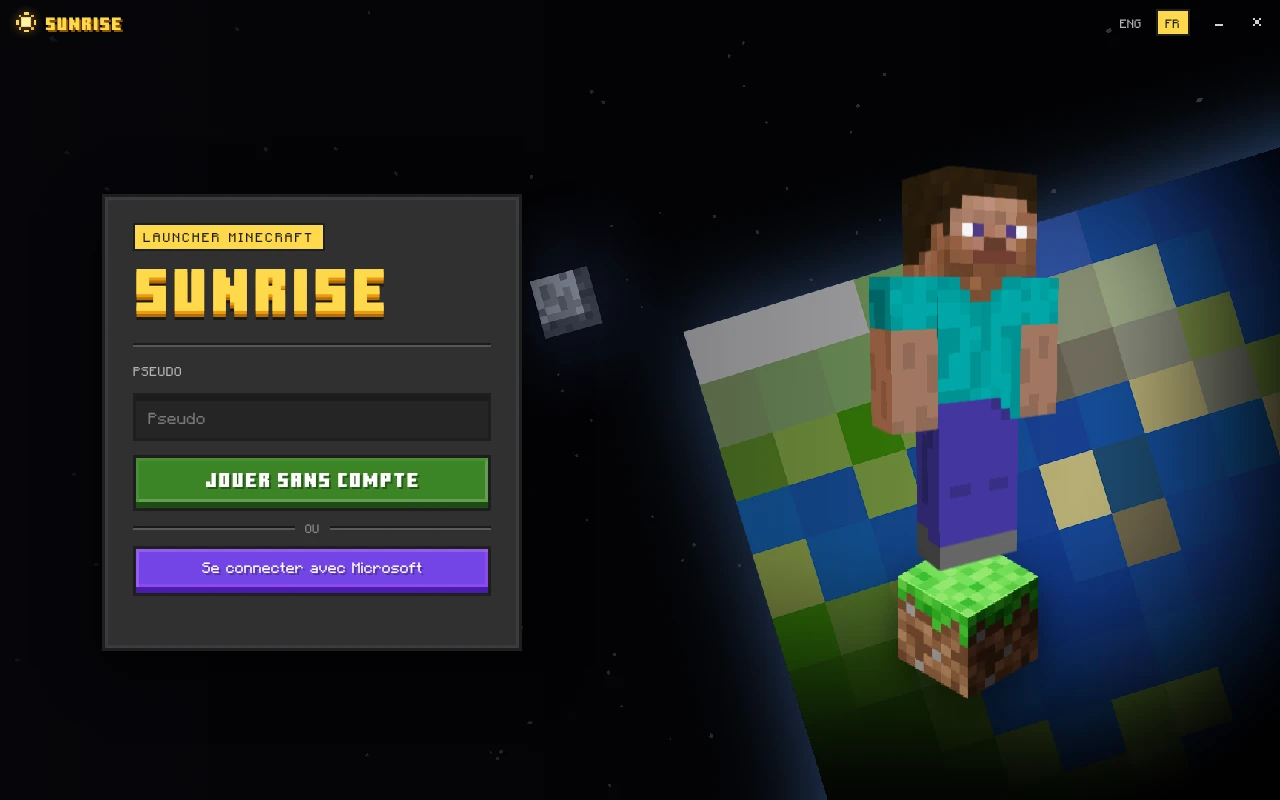
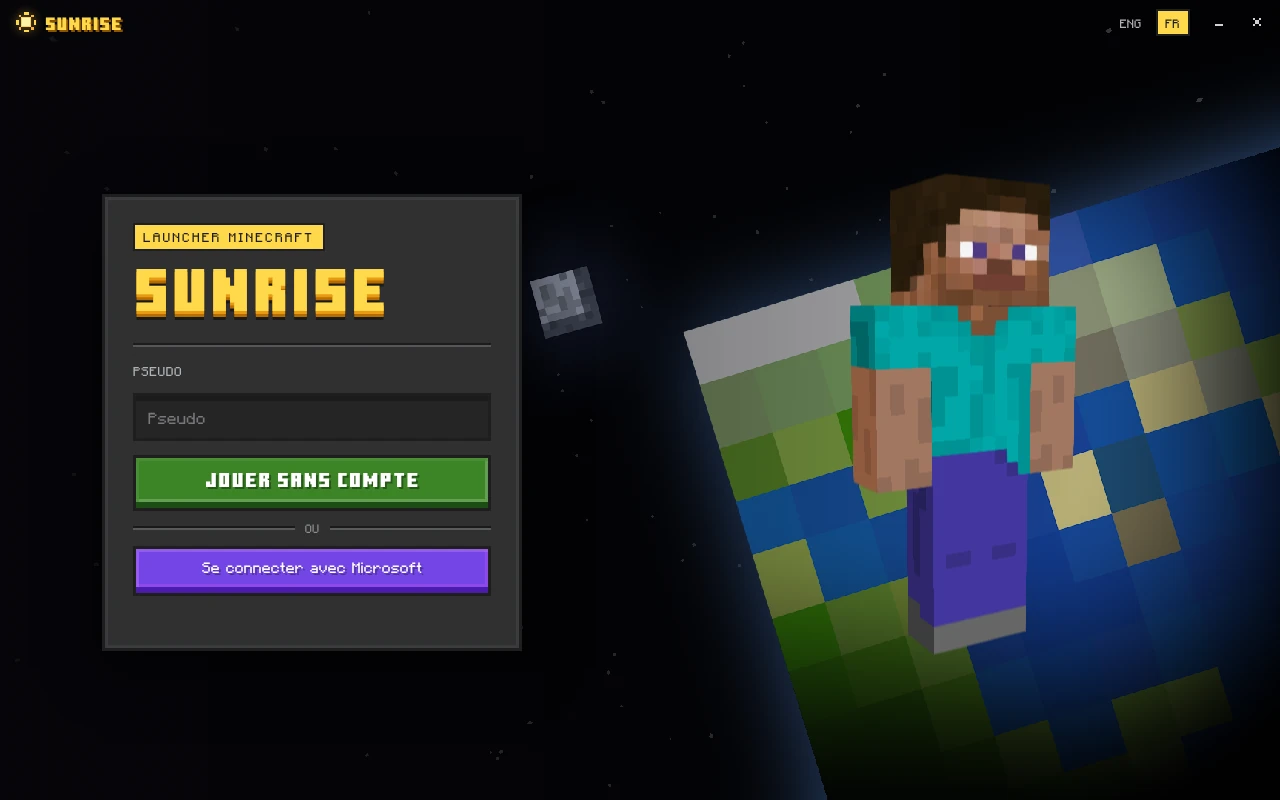
Site : retrait de la mascotte du hero, captures mises à jour
Claude-Session: https://claude.ai/code/session_01QjdxvuHCVspif69EuGBgUp

Changed region(s): [[0.6562, 0.1875, 0.8438, 0.875]]

diff --git a/docs/index.html b/docs/index.html
@@ -112,8 +112,6 @@ a { color: inherit; text-decoration: none; }
 .window-bar span:nth-child(1) { background: #c33636; } .window-bar span:nth-child(2) { background: var(--sun); } .window-bar span:nth-child(3) { background: var(--g); }
 .window-bar em { margin-left: 8px; font-style: normal; }
 .window img { border: 3px solid #0f0f10; box-shadow: 0 30px 80px rgba(0,0,0,.6), 0 0 0 1px rgba(255,255,255,.04); }
-.mascot { position: absolute; width: 120px; right: -26px; bottom: -48px; image-rendering: pixelated; filter: drop-shadow(0 8px 0 rgba(0,0,0,.4)); animation: bob 2.6s ease-in-out infinite; }
-@keyframes bob { 50% { transform: translateY(-8px); } }
 
 /* ---------- barre XP de transition ---------- */
 .xp { position: relative; height: 70px; background: var(--deep); }
@@ -202,7 +200,7 @@ footer a:hover { color: #fff; border-color: var(--sun); }
 /* apparition au défilement */
 .reveal { opacity: 0; transform: translateY(18px); transition: opacity .5s ease, transform .5s ease; transition-delay: var(--d, 0ms); }
 .reveal.in { opacity: 1; transform: none; }
-@media (prefers-reduced-motion: reduce) { .reveal { opacity: 1; transform: none; transition: none; } .xp-fill, .xp-runner, .mascot, .stars { animation: none !important; } }
+@media (prefers-reduced-motion: reduce) { .reveal { opacity: 1; transform: none; transition: none; } .xp-fill, .xp-runner, .stars { animation: none !important; } }
 
 @media (max-width: 980px) {
   .hero .wrap { grid-template-columns: 1fr; }
@@ -219,7 +217,6 @@ footer a:hover { color: #fff; border-color: var(--sun); }
   .features, .steps { grid-template-columns: 1fr; }
   .server { flex-wrap: wrap; }
   .server .btn { margin-left: 0; width: 100%; }
-  .mascot { width: 80px; right: 0; bottom: -40px; }
   .btn { white-space: normal; }
   .btn-big { width: 100%; font-size: 21px; padding: 6px 16px 16px; }
   .btn-big:active { padding: 12px 16px 10px; }
@@ -267,7 +264,6 @@ footer a:hover { color: #fff; border-color: var(--sun); }
     <div class="window reveal" style="--d:200ms">
       <div class="window-bar"><span></span><span></span><span></span><em>SUNRISE Launcher</em></div>
       <img src="assets/shots/home.webp" width="1280" height="800" alt="Écran d'accueil du launcher SUNRISE">
-      <img class="mascot" src="chibi-YUtsi-x16-celebrate.gif" alt="">
     </div>
   </div>
 </header>
@@ -311,7 +307,7 @@ footer a:hover { color: #fff; border-color: var(--sun); }
     </div>
     <div class="gallery reveal" style="--d:120ms">
       <div class="tabs" id="tabs">
-        <button class="tabbtn cur" data-shot="home" data-cap="Accueil : ton skin 3D, la pancarte des news et la barre de jeu (profil · JOUER · compte)."><img src="assets/icons/play.png" alt="">Accueil</button>
+        <button class="tabbtn cur" data-shot="home" data-cap="Accueil : ton skin 3D, les notes de mise à jour et la barre de jeu (profil · JOUER · compte)."><img src="assets/icons/play.png" alt="">Accueil</button>
         <button class="tabbtn" data-shot="mods" data-cap="Mods : la recherche Modrinth intégrée, par catégorie, avec installation dans le profil choisi."><img src="assets/icons/Mod.png" alt="">Mods</button>
         <button class="tabbtn" data-shot="servers" data-cap="Serveurs : mc-copaing, le nombre de joueurs connectés et un bouton pour rejoindre."><img src="assets/icons/serveur.png" alt="">Serveurs</button>
         <button class="tabbtn" data-shot="friends" data-cap="Amis : demandes reçues, statut en ligne et bouton pour rejoindre tes amis."><img src="assets/icons/Friends.png" alt="">Amis</button>
@@ -322,7 +318,7 @@ footer a:hover { color: #fff; border-color: var(--sun); }
       </div>
       <figure class="shot">
         <img id="shot-img" src="assets/shots/home.webp" width="1280" height="800" alt="Capture du launcher SUNRISE">
-        <figcaption id="shot-cap">Accueil : ton skin 3D, la pancarte des news et la barre de jeu (profil · JOUER · compte).</figcaption>
+        <figcaption id="shot-cap">Accueil : ton skin 3D, les notes de mise à jour et la barre de jeu (profil · JOUER · compte).</figcaption>
       </figure>
     </div>
   </div>
